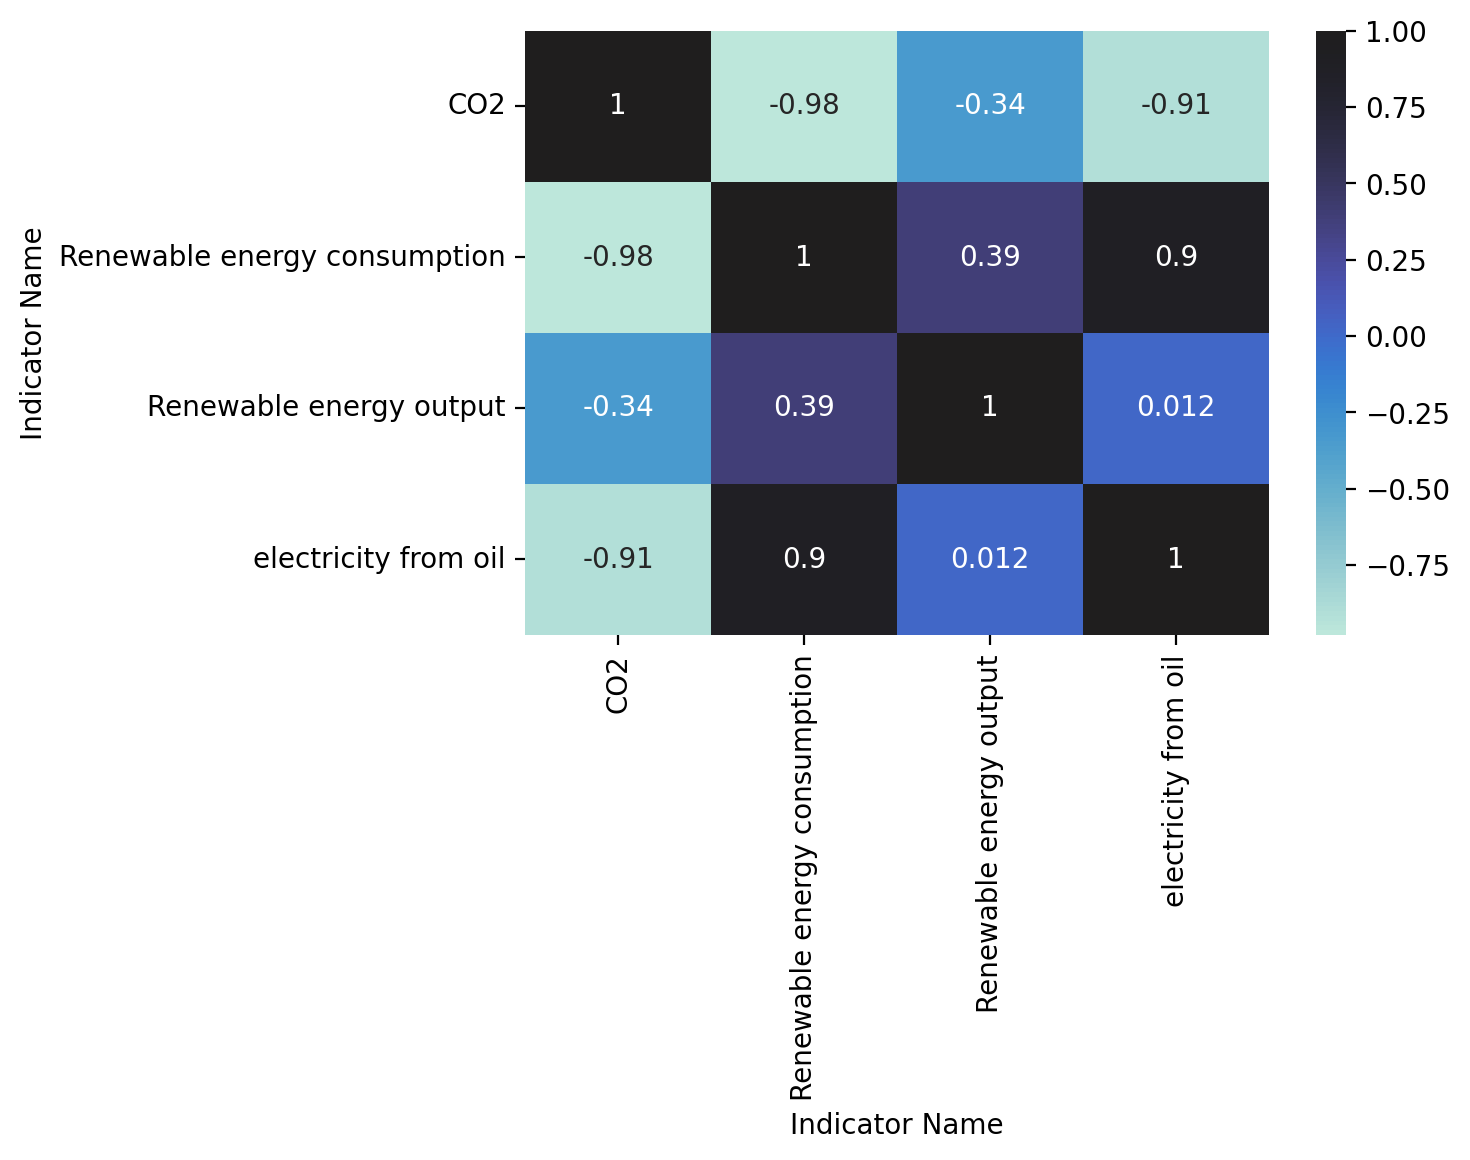
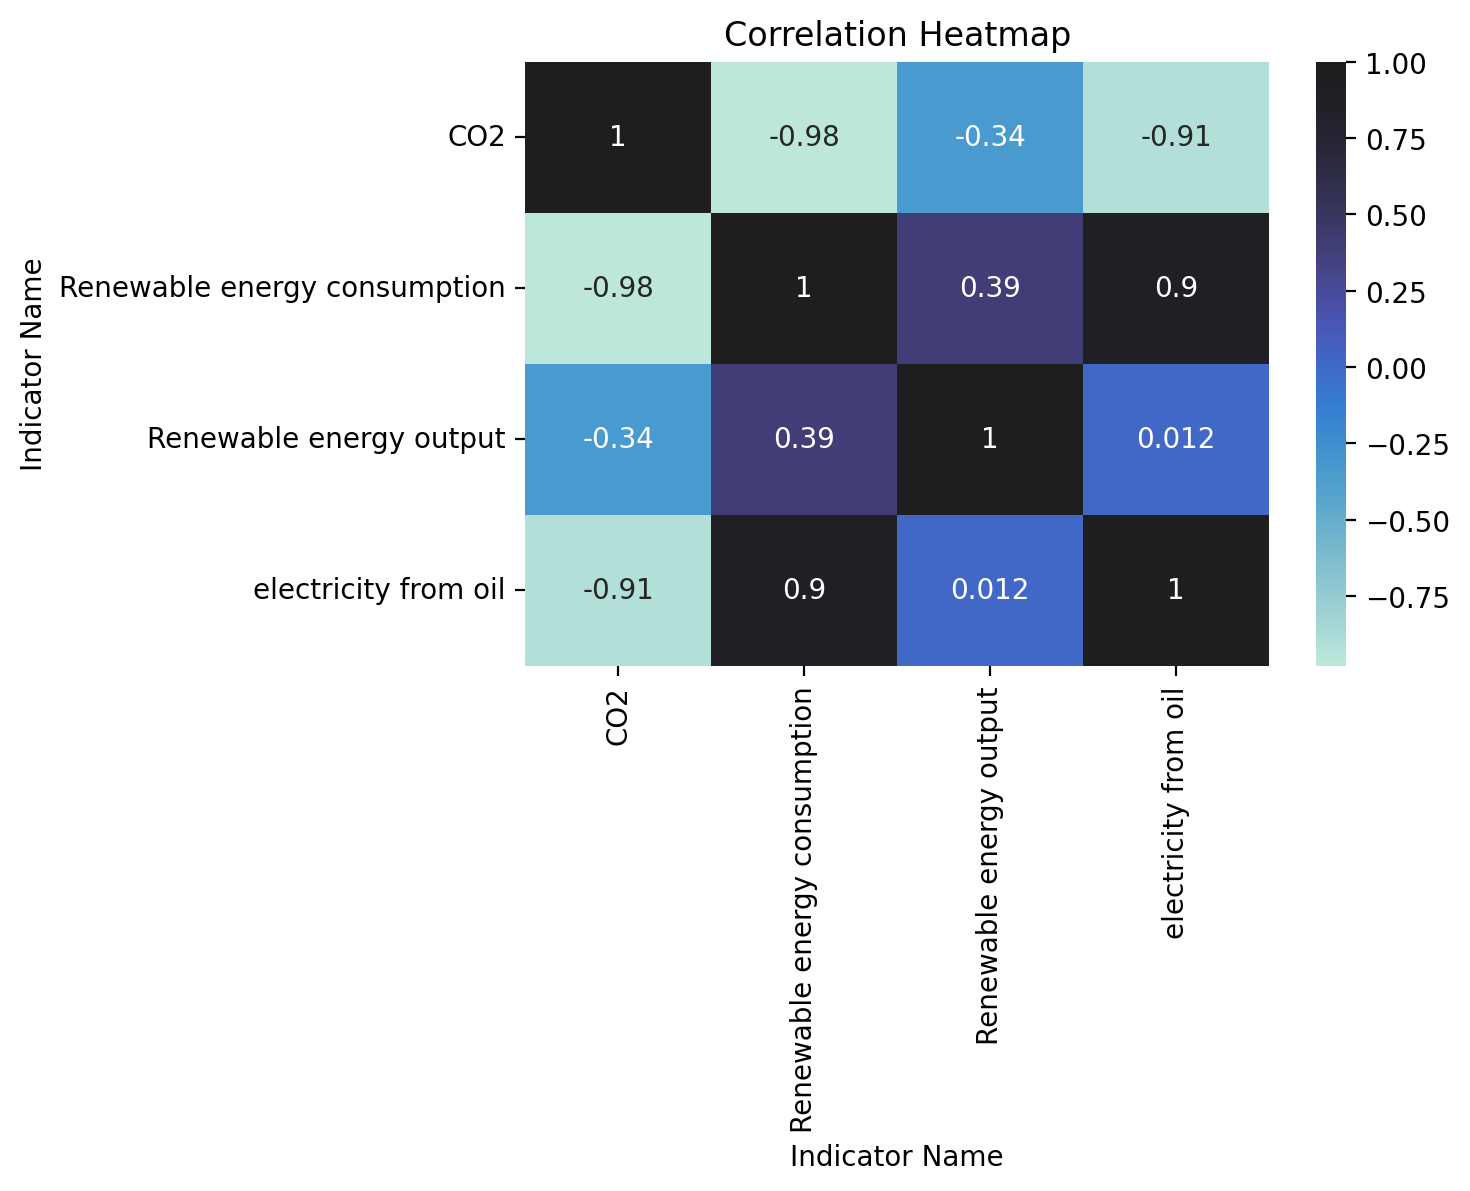
Added code to add labels, generate heatmaps, code needs to be cleaned and commented.

diff --git a/assignment_2_22074395.py b/assignment_2_22074395.py
@@ -33,7 +33,7 @@ def load_data(dataset, country_list):
     return world_bank_df, temp_df.T
 
 
-def generate_bar_plot(data, year):
+def generate_bar_plot(data, year, image_name, title):
     """
     This function generates a bar plot of the Population growth (annual %)
     for the countries specified in the country_list variable. For a given year
@@ -48,6 +48,16 @@ def generate_bar_plot(data, year):
 
     plt.bar(pop_growth_annual['Country Name'],
             pop_growth_annual.loc[:, str(year)])
+    plt.xlabel("Country")
+    plt.ylabel("%")
+    plt.xticks(rotation=20)
+    plt.title(title)
+
+    plt.savefig('figures/barplot'+image_name+'.png',
+                bbox_inches='tight',
+                dpi=200)
+
+    plt.show()
 
     return
 
@@ -80,10 +90,10 @@ def generate_line_plot(data, countries, indicator, xlabel, ylabel, title):
         plt.ylabel(ylabel)
         plt.title(title)
         plt.legend()
-        
+
     plt.savefig('figures/line_graph_'+indicator+'.png',
-                 bbox_inches='tight',
-                 dpi=200)
+                bbox_inches='tight',
+                dpi=200)
     plt.show()
 
     return
@@ -182,7 +192,7 @@ def generate_pie_chart(data, year, countries, indicator, title):
     result = result.drop(['Indicator Name'], axis=0)
     result = result.loc[str(year)]
     plt.figure()
-    result.plot(kind='pie', subplots=True, autopct="%1.f%%")
+    result.plot(kind='pie', subplots=True, autopct="%1.f%%", ylabel="")
     plt.title(title)
     plt.savefig("figures/pie_chart_"+title+".png",
                 bbox_inches='tight',
@@ -192,7 +202,7 @@ def generate_pie_chart(data, year, countries, indicator, title):
     return
 
 
-def create_heatmap(cm_df,image_name, labels=False):
+def create_heatmap(cm_df, image_name, labels=False):
     """
     Creates a heatmape using the seasborn library.
 
@@ -206,10 +216,12 @@ def create_heatmap(cm_df,image_name, labels=False):
     plt.figure()
     if labels:
         sns.heatmap(cm_df, annot=True, center=True,
-                xticklabels=labels,yticklabels=labels)
+                    xticklabels=labels, yticklabels=labels)
     else:
         sns.heatmap(cm_df, annot=True, center=True)
-        
+
+    plt.title("Correlation Heatmap")
+
     plt.savefig('figures/heatmap'+image_name+'.png',
                 bbox_inches='tight',
                 dpi=200)
@@ -254,11 +266,11 @@ def main():
                        "% of land",
                        "Electricity production from oil sources (% of total)")
 
-    #generate_line_plot(wb_data_country, countries,
-    #            'Renewable electricity output (% of total electricity output)',
-    #            "Years",
-    #            "% of total",
-    #            "Renewable electricity output(% of total)")
+    generate_line_plot(wb_data_country, countries,
+                'Renewable electricity output (% of total electricity output)',
+                "Years",
+                "% of total",
+                "Renewable electricity output(% of total)")
 
     corr = generate_corr_between(wb_data_years,
         'CO2 emissions (kt)',
@@ -267,9 +279,9 @@ def main():
         'Renewable energy consumption (% of total final energy consumption)',
         'India')
 
-    create_heatmap(corr,'1', labels=['CO2','Renewable energy consumption',
-                                     'Renewable energy output',
-                                     'electricity from oil'])
+    create_heatmap(corr, '1', labels=['CO2', 'Renewable energy consumption',
+                                      'Renewable energy output',
+                                      'electricity from oil'])
 
     generate_pie_chart(wb_data_country,
                        2020,
@@ -277,45 +289,38 @@ def main():
                        'CO2 emissions (metric tons per capita)',
                        'CO2 emissions per capita')
 
-    #generate_line_plot(wb_data_country, countries,
-    #                   'Total greenhouse gas emissions (kt of CO2 equivalent)',
-    #                   "Years",
-    #                   "kt of CO2",
-    #                   "Greenhouse gas emissions")
+    generate_line_plot(wb_data_country, countries,
+                       'Total greenhouse gas emissions (kt of CO2 equivalent)',
+                       "Years",
+                       "kt of CO2",
+                       "Greenhouse gas emissions")
 
-    #generate_line_plot(wb_data_country, countries,
-    #                   'Arable land (% of land area)',
-    #                   "Years",
-    #                   "% of land",
-    #                   "Arable land %")
+    generate_bar_plot(wb_data_years, 2020,
+                      image_name='population_growth_2020',
+                      title="Population growth (%) in 2020")
 
-    #generate_bar_plot(wb_data_years, 2020)
-    #generate_bar_plot(wb_data_years, 2019)
+    generate_bar_plot(wb_data_years, 1990,
+                      image_name='population_growth_1996',
+                      title="Population growth (%) in 1996")
 
-    #generate_line_plot(wb_data_country,
-    #                   countries,
-    #                   'Population, total',
-    #                   "Years",
-    #                   "Billions",
-    #                   'Population over the years in billions')
-
-    #generate_line_plot(wb_data_country, countries,
-    #                   'Electric power consumption (kWh per capita)',
-    #                   "Years",
-    #                   "kWh per capita",
-    #                   "Electric power consumption in kWh per capita")
+    generate_line_plot(wb_data_country,
+                       countries,
+                       'Population, total',
+                       "Years",
+                       "Billions",
+                       'Population over the years in billions')
 
     corr2 = generate_corr_between(wb_data_years,
                     'Total greenhouse gas emissions (kt of CO2 equivalent)',
-                    'Electric power consumption (kWh per capita)',
+                    'Urban population (% of total population)',
                     'Population, total',
                     'Cereal yield (kg per hectare)',
-                    'India') 
-    # Electric power consumption (kWh per capita)
-    
-    create_heatmap(corr2,'2', labels=['population','greenhouse gas',
-                                      'electric consumption', 'cereal yield'])
+                    'India')
 
+    create_heatmap(corr2, '2', labels=['Urban Population %',
+                                       'Total popultation',
+                                       'Greenhouse Gas',
+                                       'Cereal Yield'])
     return
 
 
